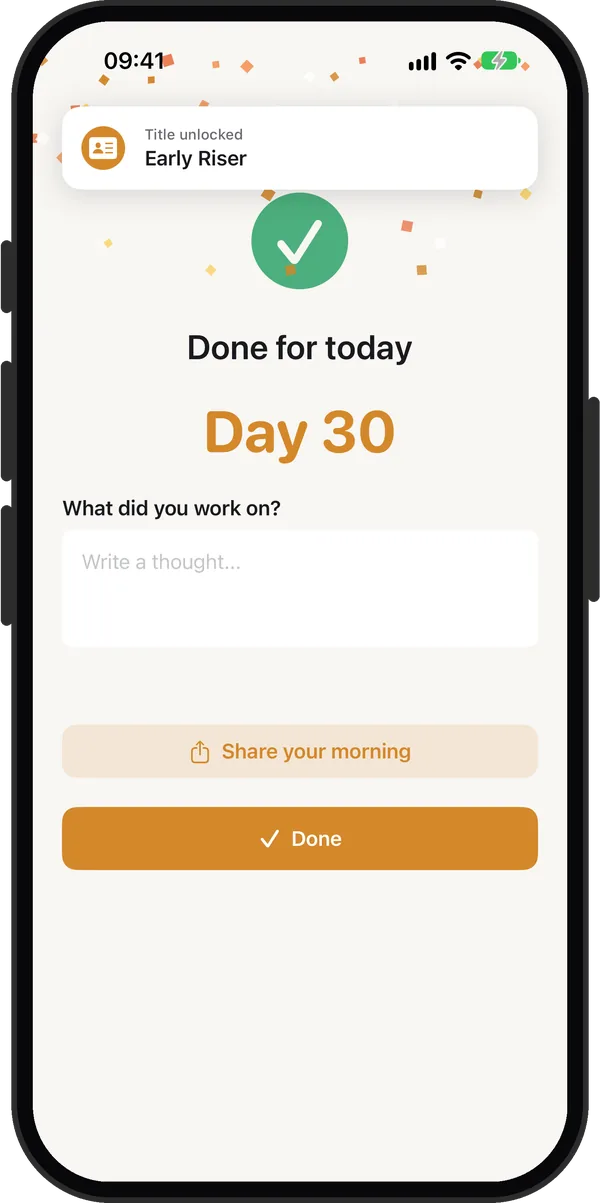
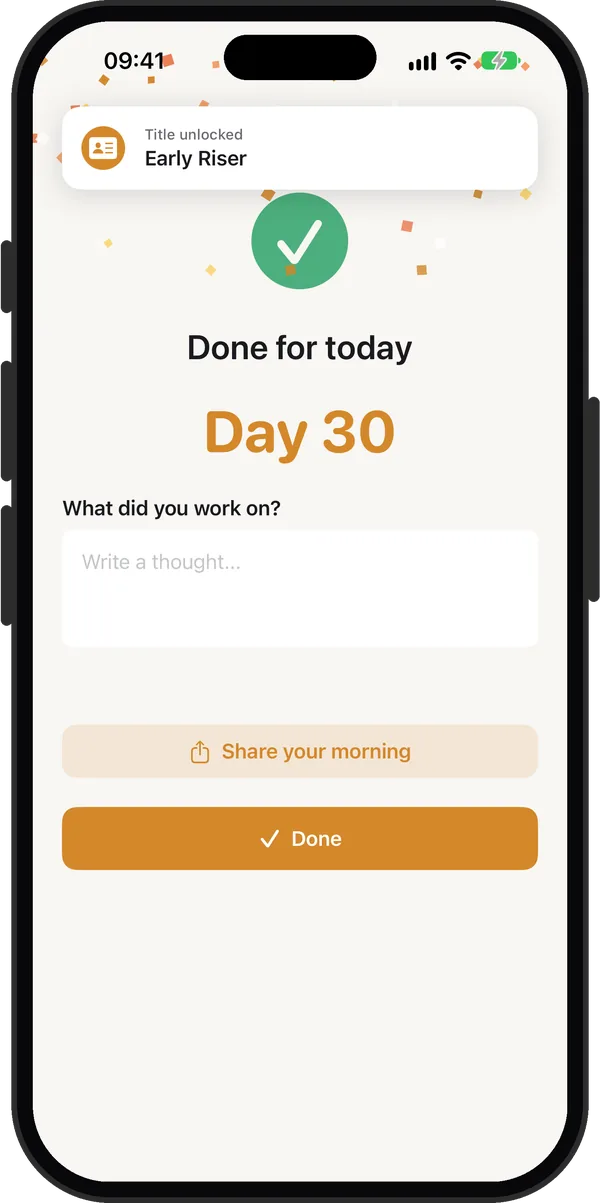
Site screenshots: draw the Dynamic Island the simulator capture lacks

Changed region(s): [[0.36, 0.0308, 0.63, 0.0923]]

diff --git a/_gen/frame_web.py b/_gen/frame_web.py
@@ -56,6 +56,17 @@ def shell_with_buttons(img):
 
 
 
+def add_dynamic_island(img):
+    """Simulator captures have no Dynamic Island; draw it. iPhone 17 Pro Max geometry:
+    ~125x37 pt, 11 pt from the top, at 3x on a 1320 px (440 pt) wide capture."""
+    w, h = img.size
+    k = w / 440
+    iw, ih, top = 125 * k, 37 * k, 11 * k
+    x0 = (w - iw) / 2
+    ImageDraw.Draw(img).rounded_rectangle([x0, top, x0 + iw, top + ih], radius=ih / 2, fill=(0, 0, 0, 255))
+    return img
+
+
 JOBS = {
     "shot-home.webp":      f"{FRESH}/home.png",
     "shot-wake.webp":      f"{FRESH}/wake.png",
@@ -69,7 +80,7 @@ JOBS = {
 
 if __name__ == "__main__":
     for name, path in JOBS.items():
-        img = Image.open(path).convert("RGBA")
+        img = add_dynamic_island(Image.open(path).convert("RGBA"))
         framed = shell_with_buttons(img).resize(FINAL, Image.LANCZOS)
         dst = os.path.join(OUT, name)
         framed.save(dst, "WEBP", quality=82, method=6)
